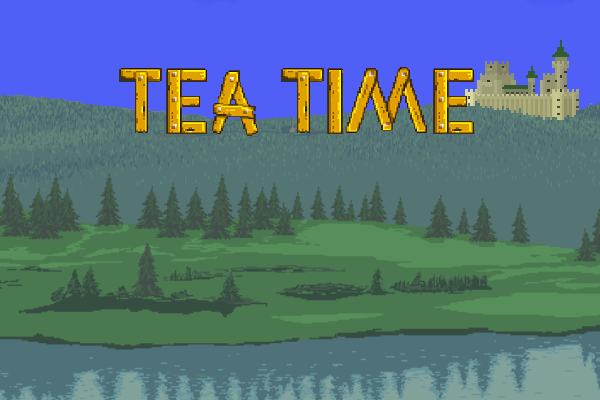
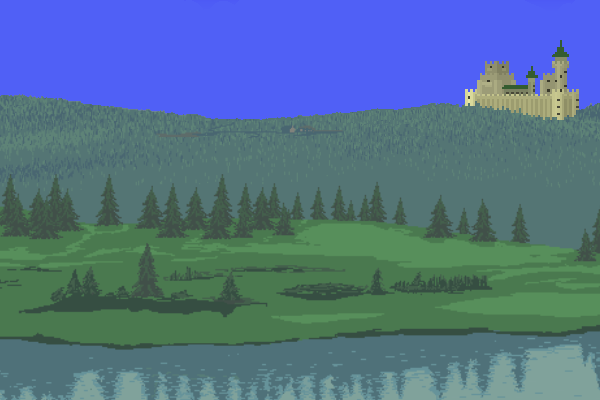
Se anadio la animacion del titulo

Changed region(s): [[0.45, 0.15, 0.81, 0.36], [0.18, 0.15, 0.45, 0.36]]

diff --git a/Title.java b/Title.java
@@ -1,0 +1,25 @@
+import greenfoot.*;  // (World, Actor, GreenfootImage, Greenfoot and MouseInfo)
+
+/**
+ * Write a description of class Title here.
+ * 
+ * @author (your name) 
+ * @version (a version number or a date)
+ */
+public class Title extends Actor
+{
+    private int dx,dy,tempo;
+    
+    public Title(){
+        dx=dy = 2;
+        tempo = 0;
+    }
+    
+    public void act()
+    {
+        tempo++;
+        if(tempo<70){
+            setLocation(getX(), getY()+dy);
+        }
+    }
+}

diff --git a/Inicio.java b/Inicio.java
@@ -7,6 +7,7 @@ public class Inicio extends World
         super(600, 400, 1); 
         prepare();
     }
+    
     /**
      * Prepare the world for the start of the program.
      * That is: create the initial objects and add them to the world.
@@ -17,5 +18,7 @@ public class Inicio extends World
         Button button = new Play();
         addObject(button,291,271);
         button.setLocation(301,301);
+        Title title = new Title();
+        addObject(title,298,0);
     }
 }
